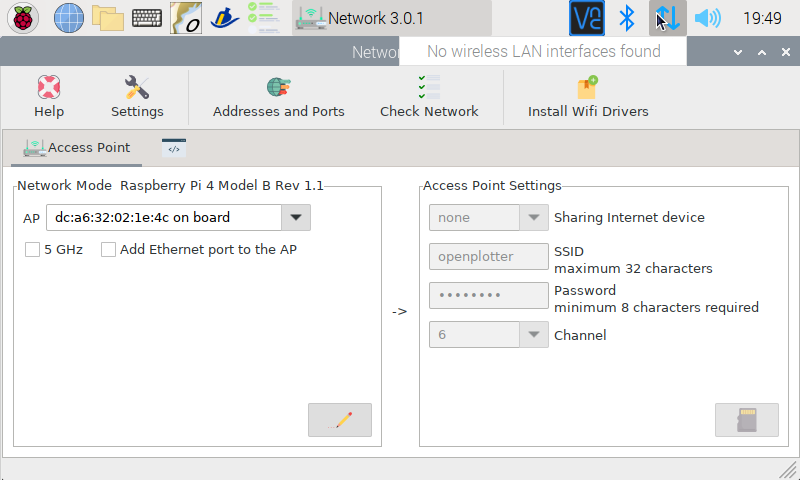
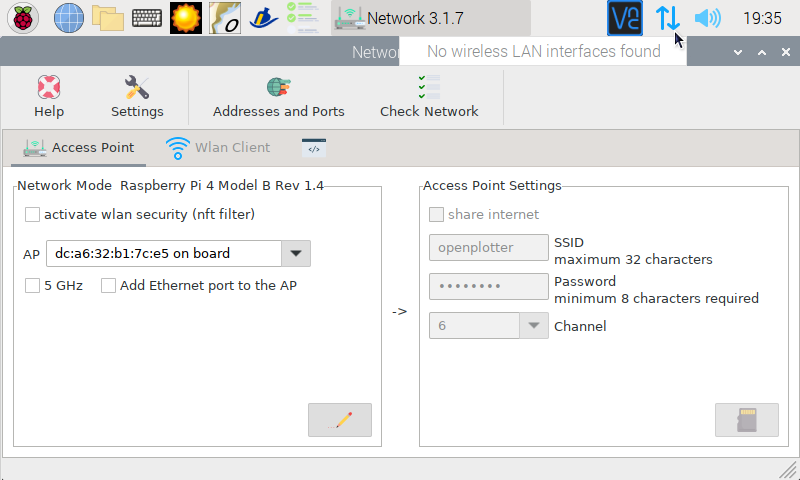
add network

diff --git a/network/modes.rst b/network/modes.rst
@@ -1,0 +1,85 @@
+.. |OPnetEdit| image:: img/edit.png
+.. |OPnetSave| image:: img/ok.png
+
+Access Point modes
+##################
+
+
+Client (on board)
+******************
+
+.. image:: img/network-rpi3-sta.gif
+
+If you do not want to set up an access point and just want to connect your system to the marina's public WiFi as a client using your built-in WiFi (on board), you will use the tool provided by your system to make the connection as usual and will set ``AP`` to *none*. Enable ``activate wlan security (nft filter)`` so that no device connected to the same public access point can connect to your system. Click |OPnetEdit| ``Edit`` and finally |OPnetSave| ``Save``:
+
+.. image:: img/network1.png
+
+There is an interesting variation of this method to have an Internet connection and at the same time create a local network and be able to connect your onboard devices to OpenPlotter. Create an AP in your smartphone and connect all your devices to it, including OpenPlotter. Disable ``activate wlan security (nft filter)`` so that any device connected to the same AP can connect to OpenPlotter using the address *openplotter.local* to access to your system's open resources like the Signal K server: *http://openplotter.local:3000*
+
+AP (on board)
+*************
+
+.. image:: img/network-rpi3-ap.gif
+
+Instead of connecting to an external access point, you can use the built-in WiFi (on board) to create your own access point and connect any onboard device such as tablets, smartphones, laptops...
+
+This time you do not need to enable ``activate wlan security (nft filter)``. Select *on board* in ``AP`` field. By default the AP works at 2.4 GHz but if the built-in WiFi device and the external devices can work at 5 GHz you can check the ``5 GHz`` field. On your router at home, you can communicate on the same subnet with your Ethernet-connected devices and your WiFi-connected devices. If you want OpenPlotter to treat the AP and Ethernet port this way, check ``Add Ethernet port to the AP``. Now you are ready to configure the settings of your AP, click |OPnetEdit| ``Edit`` to enable the next window. 
+
+.. image:: img/network2.png
+
+You are not connected to Internet, so uncheck the ``share internet`` field. You have to give to your AP a ``SSID`` (a name). This name will be listed when your external devices search for a WiFi AP. Give your wlan a secure ``Password``. You can choose a channel you like. Not all selectable channels will work depending on the country setup of your system. If you are having network problems, you can sometimes solve them by changing the channel to a less crowded one. Click |OPnetSave| ``Save`` when done and OpenPlotter will reboot to apply the changes:
+
+.. image:: img/network3.png
+
+After reboot, you will see the SSID listed as an available AP by searching from your onboard WiFi devices, confirm you can connect them to your new AP. The built-in WiFi device is now busy working as an AP, so it will not be able to connect to the marina AP as you can see in the image below:
+
+.. image:: img/network4.png
+
+Use the address *openplotter.local* or the IP *10.10.10.1* to access to your system's open resources like the Signal K server: *http://openplotter.local:3000*
+
+AP + Client (on board)
+**********************
+
+.. image:: img/network-rpi3-apandsta.gif
+
+Raspberry Pi models 3 and 4 can use the built-in WiFi device (on board) as an AP and a station at the same time. In this way the devices onboard can connect to OpenPlotter and OpenPlotter can connect to the marina's public WiFi and share its internet connection with the rest of the devices. This is good for saving power, but it is less reliable and slower.
+
+Enable ``activate wlan security (nft filter)`` so that no device connected to the same public access point can connect to your system. Select *AP and Station* in ``AP`` field. Check ``5 GHz`` and ``Add Ethernet port to the AP`` if you need it and click |OPnetEdit| ``Edit``.
+
+Check the ``share internet`` field and fill in the rest of the settings of your AP as usual. Click |OPnetSave| ``Save`` when done and OpenPlotter will reboot to apply the changes:
+
+.. image:: img/network5.png
+
+After reboot, you will see the SSID listed as an available AP by searching from your onboard WiFi devices, but this time you can also connect to the marina's AP and share internet with your onboard devices:
+
+.. image:: img/network6.png
+
+Use the address *openplotter.local* or the IP *10.10.10.1* to access to your system's open resources like the Signal K server: *http://openplotter.local:3000*
+
+AP + Client (on board + usb)
+****************************
+
+.. image:: img/network-rpi3-ap+sta.gif
+
+This is the most reliable and effective method of creating a local network to connect all devices onboard using the built-in WiFi (on board) and also connect to the marina's public WiFi using an external WiFi device (usb). With this method, you will be able to connect to weak WiFi signals using external WiFi devices with long range antennas.
+
+Enable ``activate wlan security (nft filter)`` so that no device connected to the same public access point can connect to your system. Select *on board* in ``AP`` field. Check ``5 GHz`` and ``Add Ethernet port to the AP`` if you need it and click |OPnetEdit| ``Edit``. Check the ``share internet`` field and fill in the rest of the settings of your AP as usual. Click |OPnetSave| ``Save`` when done and OpenPlotter will reboot to apply the changes. 
+
+After reboot, you will see the SSID listed as an available AP by searching from your onboard WiFi devices, and you can also connect to the marina's AP and share internet with your onboard devices. Since we are using a second WiFi device, this time we will be able to see our own AP in the list:
+
+.. image:: img/network9.png
+
+Use the address *openplotter.local* or the IP *10.10.10.1* to access to your system's open resources like the Signal K server: *http://openplotter.local:3000*
+
+AP + Client (on board + tethering)
+**********************************
+
+.. image:: img/network-rpi3-ap+tethering.gif
+
+This is the most versatile method and allows you to create a local network, connect to the marina's public WiFi, and also connect to the internet using your mobile data when the marina's WiFi is not available.
+
+Enable ``activate wlan security (nft filter)``. Select *on board* in ``AP`` field. Check ``5 GHz`` and ``Add Ethernet port to the AP`` if you need it and click |OPnetEdit| ``Edit``. Check the ``share internet`` field and fill in the rest of the settings of your AP as usual. Click |OPnetSave| ``Save`` when done and OpenPlotter will reboot to apply the changes. 
+
+Connect your smartphone to OpenPlotter by a data+power USB cable. Enable *share internet connection by USB* in your smartphone (tethering). Connect your smartphone to the marina's public WiFi or use your mobile data to provide Internet to OpenPlotter.
+
+Use the address *openplotter.local* or the IP *10.10.10.1* to access to your system's open resources like the Signal K server: *http://openplotter.local:3000*

diff --git a/network/network_app.rst b/network/network_app.rst
@@ -2,8 +2,10 @@
 .. |mSettings| image:: ../img/settings.png
 .. |OPnet| image:: img/openplotter-network.png
 .. |OPnetAdd| image:: img/ports.png
+.. |OPnetCheck| image:: img/check.png
 .. |OPnetEdit| image:: img/edit.png
 .. |OPnetSave| image:: img/ok.png
+.. |OPnetWifi| image:: img/wifi.png
 
 |OPnet| Network
 ###############
@@ -25,69 +27,19 @@ The purpose of this app is to provide useful information about your network and 
 
 .. image:: img/network10.png
 
-Next we will explain the different operating modes of the AP.
+|OPnetCheck| ``Check Network`` is another useful tool to know the status of your network at any time:
 
-Station (on board)
-##################
+.. image:: img/network10bis.png
 
-.. image:: img/network-rpi3-sta.gif
+Security
+********
 
-If you do not want to set up an access point and just want to connect your system to an external access point as a station using your built-in WiFi (on board), you will use the tool provided by your system to make the connection as usual and will set *AP* to *none*:
+If you are connected to the marina's public WiFi and that access point is not properly configured or secured, any device connected to the same access point will access your system's open resources like the Signal K server, some data streams, dashboards, etc. 
 
-.. image:: img/network1.png
+To avoid this, check ``activate wlan security (nft filter)``, click |OPnetEdit| ``Edit`` and finally |OPnetSave| ``Save``. After reboot, any device trying to connect to your system will be blocked:
 
-AP (on board)
-#############
+.. image:: img/networkSec1.png
 
-.. image:: img/network-rpi3-ap.gif
+If you trust your marina's public WiFi or you are also connected to a local network using a second WiFi device, such as a USB dongle, you can grant access to your system only to devices connected to that trusted access point. Go to the |OPnetWifi| ``Wlan Client`` tab and add the trusted access point to the *Private Network* by clicking ``+``:
 
-Instead of connecting to an external access point, you can use the built-in WiFi (on board) to create your own access point and connect any onboard device such as tablets, smartphones, laptops...
-
-Select *on board* in ``AP`` field. By default the AP works at 2.4 GHz but if the built-in WiFi device and the external devices can work at 5 GHz you can check the ``5 GHz`` field. On your router at home, you can communicate on the same subnet with your Ethernet-connected devices and your WiFi-connected devices. If you want OpenPlotter to treat the AP and Ethernet port this way, check ``Add Ethernet port to AP``:
-
-.. image:: img/network2.png
-
-Noww you are ready to configure some settings of your AP, click |OPnetEdit| ``edit`` to enable the next window. You are not connected to internet, so select *none* in ``sharing Internet device`` field. You have to give to your AP a ``SSID`` (a name). This name will be listed when your external devices search for a WiFi AP. Give your wlan a secure ``Password``. You can choose a channel you like. Not all selectable channels will work depending on the country setup of your system. If you are having network problems, you can sometimes solve them by changing the channel to a less crowded one. Click |OPnetSave| ``Save`` when done and OpenPlotter will reboot to apply the changes:
-
-.. image:: img/network3.png
-
-After reboot, you will see the SSID listed as an available AP by searching from your onboard WiFi devices, confirm you can connect them to your new AP. The built-in WiFi is now busy working as an AP, so it will not be able to connect to the marina AP as you can see in the image below:
-
-.. image:: img/network4.png
-
-AP + Station (on board)
-#######################
-
-**Under construction...**
-
-.. image:: img/network-rpi3-apandsta.gif
-
-.. image:: img/network5.png
-
-.. image:: img/network6.png
-
-
-AP + Station (on board + usb)
-#############################
-
-**Under construction...**
-
-.. image:: img/network-rpi3-ap+sta.gif
-
-.. image:: img/network7.png
-
-.. image:: img/network8.png
-
-.. image:: img/network9.png
-
-.. image:: img/network11.png
-
-
-AP + station (on board + tethering)
-###################################
-
-**Under construction...**
-
-.. image:: img/network-rpi3-ap+tethering.gif
-
-.. image:: img/network8.png
+.. image:: img/networkSec2.png

diff --git a/index.rst b/index.rst
@@ -77,10 +77,11 @@ Welcome to OpenPlotter's documentation!
 
 .. toctree::
    :maxdepth: 1
-   :caption: Network - 3.0.1-beta
+   :caption: Network - 3.1.7-stable
    :name: sec-network
 
    network/network_app
+   network/modes
 
 .. toctree::
    :maxdepth: 1
